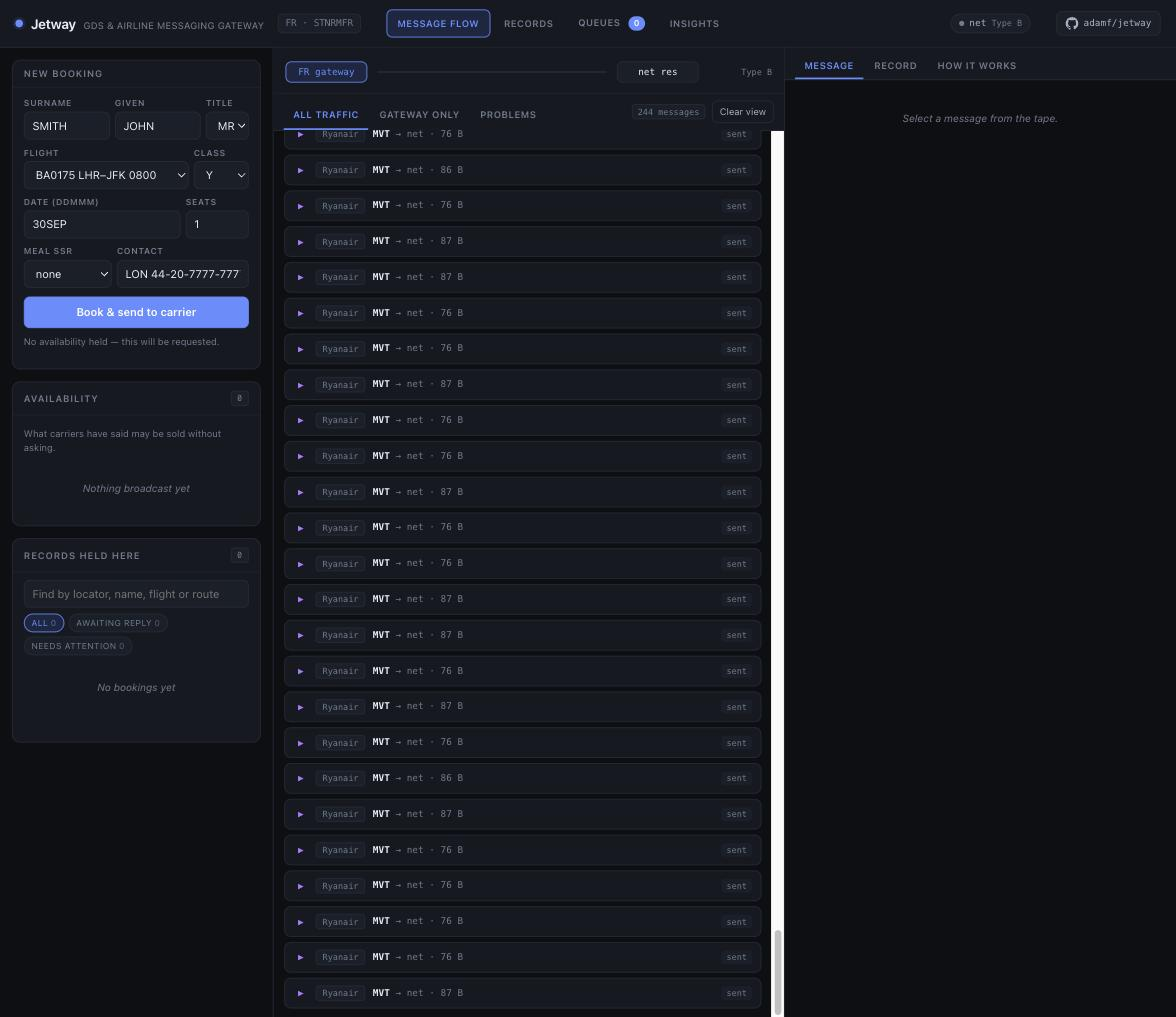
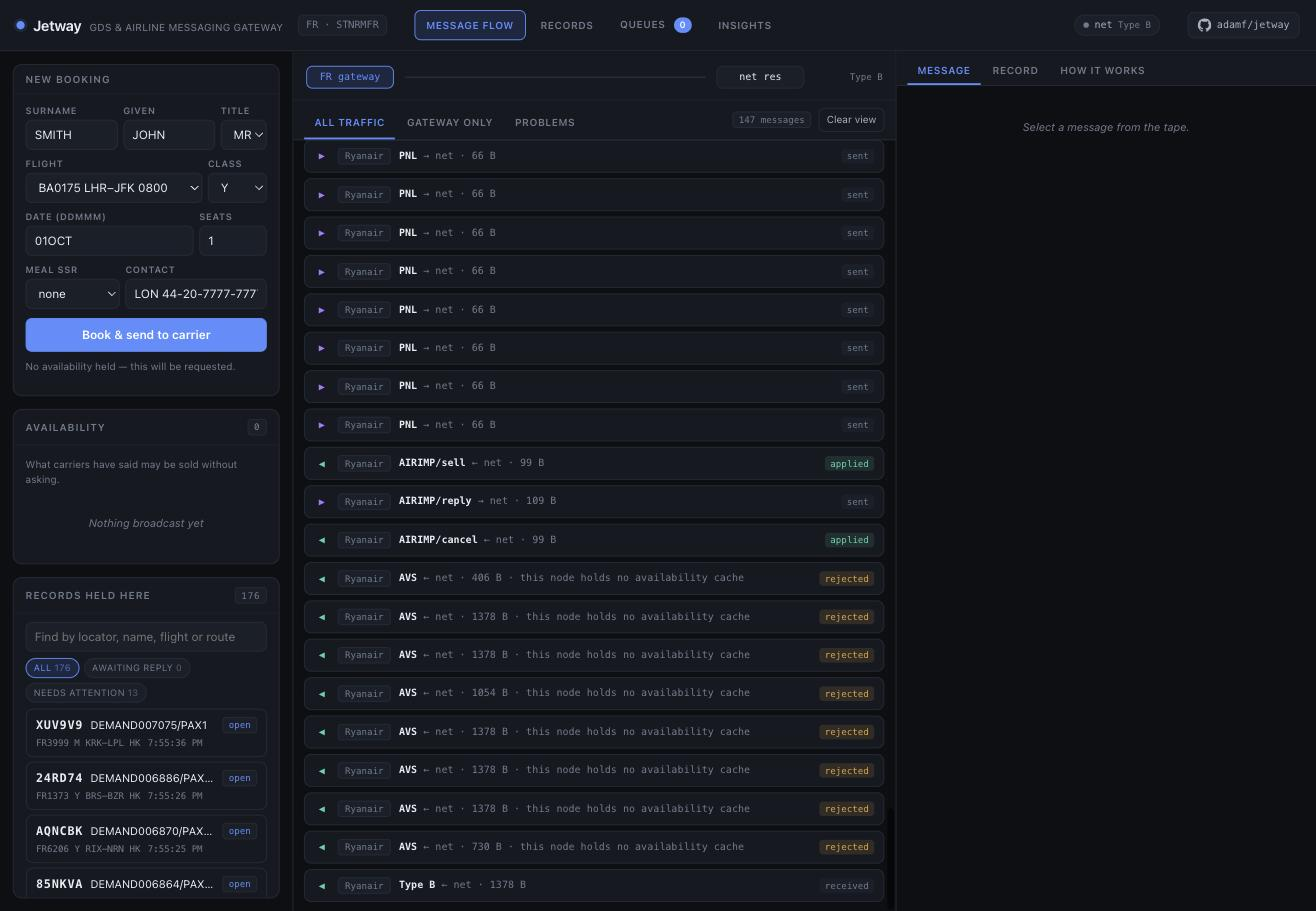
docs: re-capture every README visual from the six-machine demo
All three GIFs and both stills now come from the live multi-machine
deployment: the globe with the morning banks and an airport closure,
the web with pan/zoom and the ring layout, the fleet drill-down over
522 federated rows, Ryanair's console proxied through core, and the
stats panel with the pnl/bag series. Fix stale node counts (519-era)
in the console caption and single-box diagram.

Claude-Session: https://claude.ai/code/session_01EcjUj4wG4nicvJX2MhGn5x

diff --git a/README.md b/README.md
@@ -6,48 +6,58 @@ booking, and every Type B and EDIFACT message that makes it go, over real
 sockets.
 
 **Live demo:** https://wholesky-demo.fly.dev/eye — the Eye, watching the
-whole sky: 518 carriers, 2,883 airports, 57,513 flights a day, running
-continuously on one machine.
+whole sky: 518 carriers, 2,883 airports, 103,688 flights a day — about what
+the real world flies — booking at real reservations volume across six
+machines. The bar tells you what you are looking at: live messages per
+second, aircraft airborne, the sim clock with its own speed controls
+(pause the day, or run it at ten hours a minute), and a "what is this?"
+legend that names every mark. Click any aircraft for the bookings riding
+it, across every selling channel that holds one.
 
-![The globe: thousands of aircraft over the Earth, and Heathrow closing](docs/the-globe.gif)
+![The globe: fourteen thousand aircraft in the morning banks, a flight opened to its passengers, and an airport closing](docs/the-globe.gif)
 
 The globe has a second mode: **net**, the logical web of who converses with
 whom. The switch never appears — it is plumbing. Every relayed message
 carries the id of the inbound it forwards, so the Eye resolves each relay to
-a true src→dst conversation: carriers to the GDS, and carriers to their
-interline partners, to whom availability is broadcast the way it really is.
+a true src→dst conversation: carriers to the distribution systems, and carriers to their interline
+partners, to whom availability is broadcast the way it really is.
 Two layouts of the same graph — a force-directed **web**, where regional
 communities pull themselves together by their own message springs (China
 upper-left, the Americas upper-right, Europe below, with no geography told
 to the layout), and a **ring** with the conversations as woven chords.
-Everyone-talks-to-the-GDS is drawn as faint wallpaper; the ink goes to the
-carrier-to-carrier web. Every node is one click from its own console.
+Everyone-talks-to-a-GDS is drawn as faint wallpaper; the ink goes to the
+carrier-to-carrier web. Drag to pan, scroll to zoom, and every node is one
+click from its own console.
 
 ![The web: the world's interline conversations, laid out by their own springs](docs/the-web.gif)
 
-**Every node has a real console.** Each of the 519 embedded Jetway systems —
-the GDS and all 518 carriers — serves the full Jetway console at
-`/node/{code}/`, wearing its own identity: open `/node/FR/` and you are
+**Every node has a real console.** Each of the 522 Jetway systems — the
+switch, three distribution systems, and all 518 carriers — serves the full
+Jetway console
+at `/node/{code}/`, wearing its own identity: open `/node/FR/` and you are
 inside Ryanair's reservation system, its own message tape, records and
-queues.
+queues — proxied transparently to whichever machine runs it.
 
-![Ryanair's own console, one of 519](docs/the-tenant-console.jpg)
+![Ryanair's own console, one of 522](docs/the-tenant-console.jpg)
 
 And `/stats` is the cluster's instrument panel: ten minutes of time series at
 two-second resolution — message rates by wire format and traffic class,
-bookings, airborne count, queue depths, and undeliverable-per-second, the
-number that should be zero. The sixty-second AVS rebroadcast cycle is
-plainly visible as a heartbeat in the charts.
+bookings, airborne count, queue depths, name-list and baggage traffic, and
+undeliverable-per-second, the number that should be zero. The availability
+rebroadcast cycle is plainly visible as a heartbeat in the charts.
 
 ![The instrument panel](docs/the-stats.jpg)
 
 Behind the globe sits **the fleet** at `/fleet`: every Jetway system in the
-world as a live row — the switch, the GDS, and all 518 carrier tenants with
-their hubs, dialects, link state and message counters, fed by tapping each
-node's own event bus. Click a carrier for its records, queues and message
-log; click a message for the bytes as they crossed the wire.
+world as a live row — the switch, the distribution systems, and all 518
+carrier tenants with their hubs, dialects, transports (a share of the
+teletype world dials in over MATIP), link state and message counters,
+merged live from every machine in the deployment. Click a carrier for its
+records, queues and message log; click a message for the bytes as they
+crossed the wire; sever its circuit and watch the undeliverables bleed
+until you restore it.
 
-![The fleet in action: 520 nodes, into Ryanair, down to the raw telex](docs/the-fleet.gif)
+![The fleet in action: 522 nodes across six machines, into Ryanair mid-departure-bank, down to the raw telex, and a circuit cut and restored](docs/the-fleet.gif)
 
 The coastlines are [Natural Earth](https://www.naturalearthdata.com)
 1:110m, public domain, vendored at 76KB and embedded in the binary -- the
@@ -69,8 +79,7 @@ switch; the Eye subscribes to the buses the world already publishes on and
 knows nothing the network cannot see. The stats line counts messages,
 movements and bookings as the seeded demand books through the switch in both
 wire dialects. The switch's own console lives at the root — open any message
-and read it field by field. The machine suspends when nobody is watching and
-thaws mid-flight, replaying the last two sim-hours as a burst.
+and read it field by field.
 
 Design: "The Whole Sky" (design note, 2026-08-31). The short version — the
 sky is loud but it is not big. The world's reservation fabric peaks at a few
@@ -84,29 +93,71 @@ topology here mirrors the real one:
 - **Carriers** are tenants of a host process — most of the world's carriers
   are tenants of a handful of hosted reservation systems, so the efficient
   shape and the realistic shape are the same shape.
-- **The GDS** is a Jetway gateway with one switch link and a peer entry per
-  carrier. A booking's sell crosses two links and comes back confirmed.
+- **The GDSes** are Jetway gateways with one switch link each and a peer
+  entry per carrier. A booking's sell crosses two links and comes back
+  confirmed — and capacity holds across channels, because the carrier's
+  inventory is the single authority every channel converges on.
 - **OTAs are not nodes.** They are demand: load generators speaking NDC and
   booking APIs. (Phase two.)
 
 ## How it is put together
 
-One OS process; 520 Jetway instances as library assemblies; everything
-between them crosses real TCP. The only full `jetwayd` is the switch -- the
-same assembly the standalone binary runs, console included. The GDS and every
-carrier are embedded gateways: own identity, own store, own console, one
-socket each.
+Two shapes, one codebase. **Single-box** (`-role all`, the default and the
+test bed): one OS process, every Jetway instance a library assembly,
+everything between them crossing real TCP on loopback. **Multi-machine**
+(the deployed demo): the same assemblies spread across six machines, dialled
+together over a private network — and the switch cannot tell the
+difference, which is the point.
+
+The deployed shape splits along the world's real seams:
+
+- **core** — the switch (a full `jetwayd` in relay mode) and the
+  instruments: Eye, fleet, stats, and the only public HTTP. It flies its
+  globe entirely from its own switch bus, because every movement crosses
+  the switch, whoever it was addressed to.
+- **gds1g / gds1s / gds1a** — one distribution system each, plus its share
+  of demand: ~3,500 bookings a minute between them, which is real global
+  reservations volume. Bookings happen at the GDS, so that is where the
+  load lives.
+- **region0 / region1** — the 518 carriers, sharded by stable hash, each
+  region flying its slice of the flight day and telling its own ground
+  story (PNL, ADL, BSM, BPM).
+
+Federation is deliberately dumb: peers register with the core and heartbeat
+every few seconds; the reply carries the switch's link addresses, the
+current warp and the closed-airport set, so liveness, time control and
+chaos all propagate on one pulse. The fleet board merges every peer's rows
+and proxies drill-downs and consoles to whichever machine owns the node.
+
+```mermaid
+flowchart LR
+  subgraph core [core — public]
+    SW[switch · relay]
+    EYE[Eye · fleet · stats]
+  end
+  G1[gds1g + demand] <--> SW
+  G2[gds1s + demand] <--> SW
+  G3[gds1a + demand] <--> SW
+  R0[region0 · ~260 carriers] <--> SW
+  R1[region1 · ~258 carriers] <--> SW
+  G1 & G2 & G3 & R0 & R1 -. register + heartbeat .-> EYE
+```
+
+In single-box mode the only full `jetwayd` is the switch -- the same
+assembly the standalone binary runs, console included. The distribution
+systems and every carrier are embedded gateways: own identity, own store,
+own console, one socket each.
 
 ```mermaid
 flowchart TB
-  subgraph skyd [skyd — one process, one Fly machine]
+  subgraph skyd [skyd -role all — the single-box shape]
     direction TB
     subgraph sw [the switch — a full jetwayd, Relay mode]
-      SWG[gateway + store + 519 TCP listeners]
+      SWG[gateway + store + 523 TCP listeners]
       UI[console at / · /eye · /fleet · /stats · /node/*]
     end
-    subgraph gds [the GDS — embedded gateway]
-      G[gateway + store + queues + avail cache]
+    subgraph gds [five distribution systems — embedded gateways]
+      G[gateway + store + queues + avail cache, each]
     end
     subgraph host [carrier host — 518 tenants]
       T1[FR gateway + store + inventory]
@@ -118,7 +169,7 @@ flowchart TB
   end
   V((viewer))
 
-  G <-- "1 TCP link — AIRIMP + PADIS" --> SWG
+  G <-- "1 TCP link each — AIRIMP + PADIS" --> SWG
   T1 <-- "1 TCP link each" --> SWG
   T2 <---> SWG
   TN <---> SWG
@@ -129,15 +180,14 @@ flowchart TB
   V --> UI
 ```
 
-What is real: the wire (519 sockets, real framing, real Type B and EDIFACT
+What is real: the wire (521 sessions, real framing, real Type B and EDIFACT
 bytes, relay by address line and UNB recipient) and the state separation
-(nothing moves between nodes except a message). What is not: process
-isolation -- one panic takes the sky down, and all 520 share a scheduler.
-That trade is deliberate: the topology mirrors the real industry, where most
-carriers are tenants of a handful of hosted systems and everyone hangs off
-one message network, and the whole planet idles here at ~1.1GB. The seams
-for scaling out already exist -- a tenant host pointed at a switch across a
-real network works unchanged.
+(nothing moves between nodes except a message). In the deployed shape the
+process isolation is real too -- a region can die and restart while the
+rest of the sky keeps flying, and rejoining is just registering and
+dialling back in. The topology mirrors the real industry either way: most
+carriers are tenants of a handful of hosted systems, and everyone hangs off
+one message network.
 
 ## Building it
 
@@ -168,22 +218,30 @@ own, on `-console`, where every message can be opened and read field by field.
 
 ## Status
 
-Phase one. Works, and `go test ./...` proves it on every run: world
-compilation at any scale from a continent to the planet, deterministic by
-seed; the switch/tenant/GDS topology over real sockets; bookings settled in
-**both dialects** -- AIRIMP over Type B and PADIS over EDIFACT, relayed by
-address line and UNB recipient respectively; continuous seeded demand (a
-20-carrier European run: 299 bookings, 0 failures, both formats crossing the
-switch); and the flight day as real MVT traffic (1,286 movements through the
-fabric in the first simulated morning). The Eye serves the globe at `/eye`,
-drawn entirely from bus events on one dependency-free canvas: an
-orthographic projection when the manifest spans the world, flat for a
-region; aircraft from movements; pulses from the message stream; chaos
-halos from queue placements. The full 518-carrier world idles at ~1.1GB and
-a fraction of a core, breathing to ~2 cores during the global morning
-banks. Not yet: the real demand model (booking curve, channels, parties),
-PNL/ADL and baggage, the virtual clock, weather systems
-that close regions rather than airports.
+Works, and `go test ./...` proves it on every run: world compilation at any
+scale from a continent to the planet, deterministic by seed; the
+switch/tenant/GDS topology over real sockets; bookings settled in **both
+dialects** -- AIRIMP over Type B and PADIS over EDIFACT -- and over MATIP
+for the share of the teletype world that dials in on the airline transport;
+a demand model that lives with its bookings (connections, interline,
+parties, ticketing, cancellations, divides, a slice arriving as NDC
+orders); the ground story per departure (PNL at T−180, bags at T−90, the
+ADL diff at T−60, BPM at departure); tail rotations and a deterministic
+delay model; an adjustable sim clock; chaos that closes airports and cuts
+carrier circuits; an invariant suite (no oversell — including across
+selling channels — message conservation, interline convergence,
+cancelled-flight-queues-everyone); and a multi-machine test that boots
+core, GDS and region in one process and proves a booking crosses three
+machines and settles. Peak banks push over 8,000 messages a second through
+the deployed fabric.
+
+The pattern that keeps paying: every time the world gets bigger, it finds
+real bugs in Jetway — twenty releases so far, each fix landed upstream with
+a regression test that was watched to fail first. Not yet: replaying a real
+recorded day (BTS on-time data has every US flight with actual tails,
+delays and cancellations — the day before Thanksgiving is the obvious
+candidate), weather systems that close regions rather than airports, and
+booking curves with real seasonality.
 
 ## Licence
 
